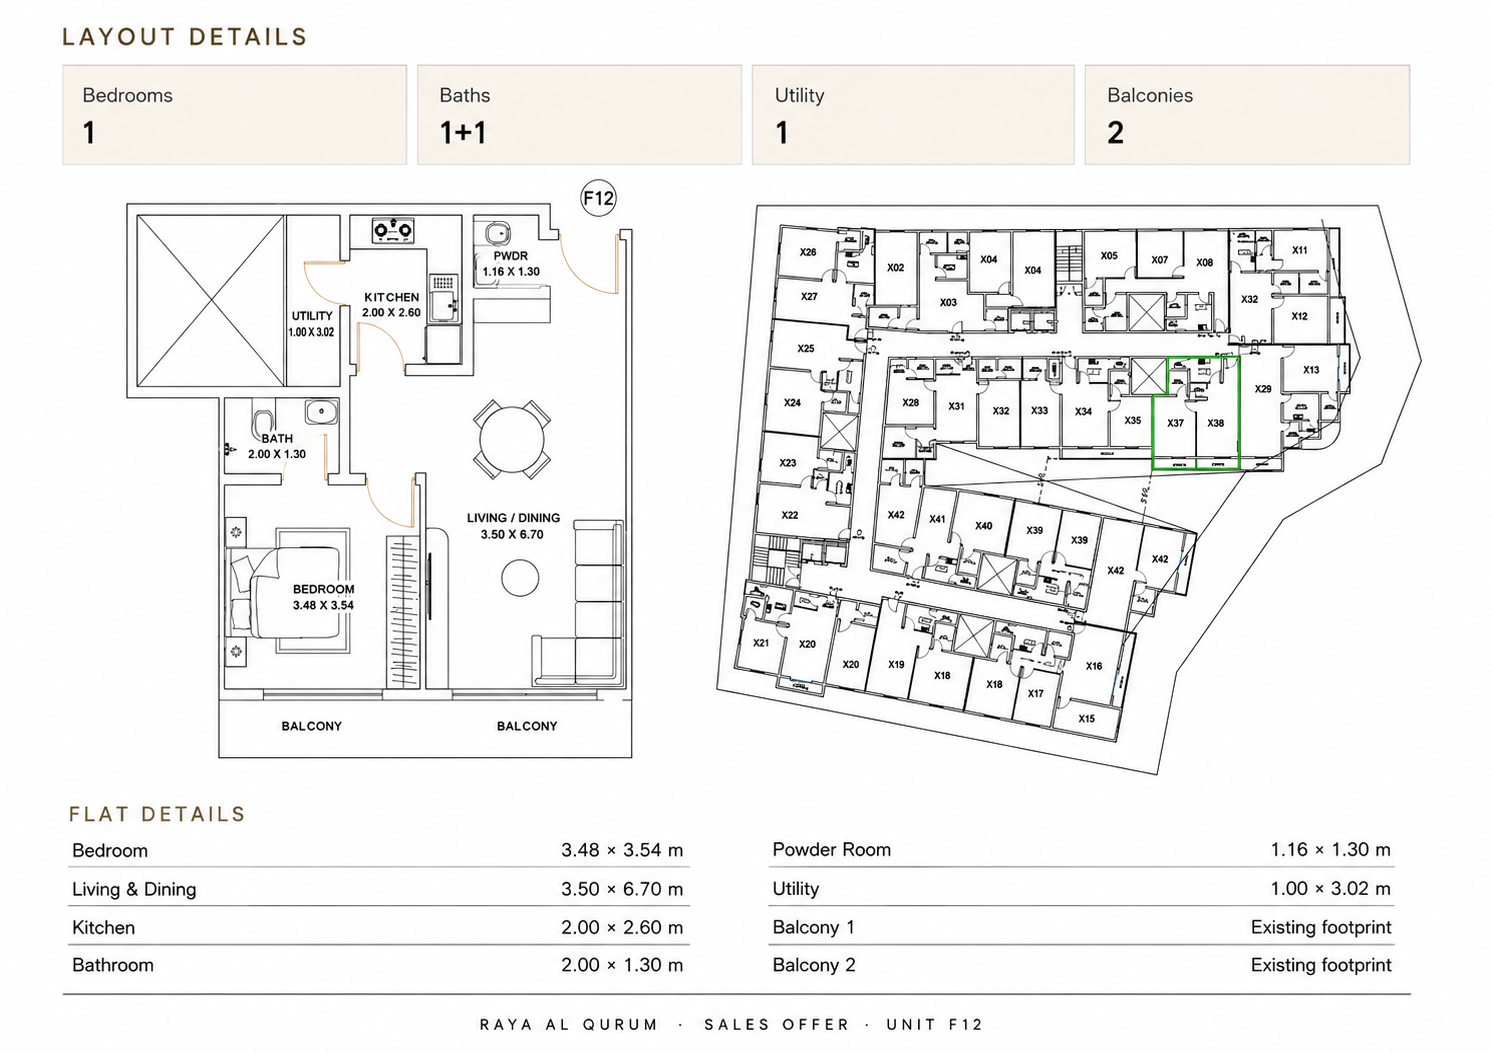
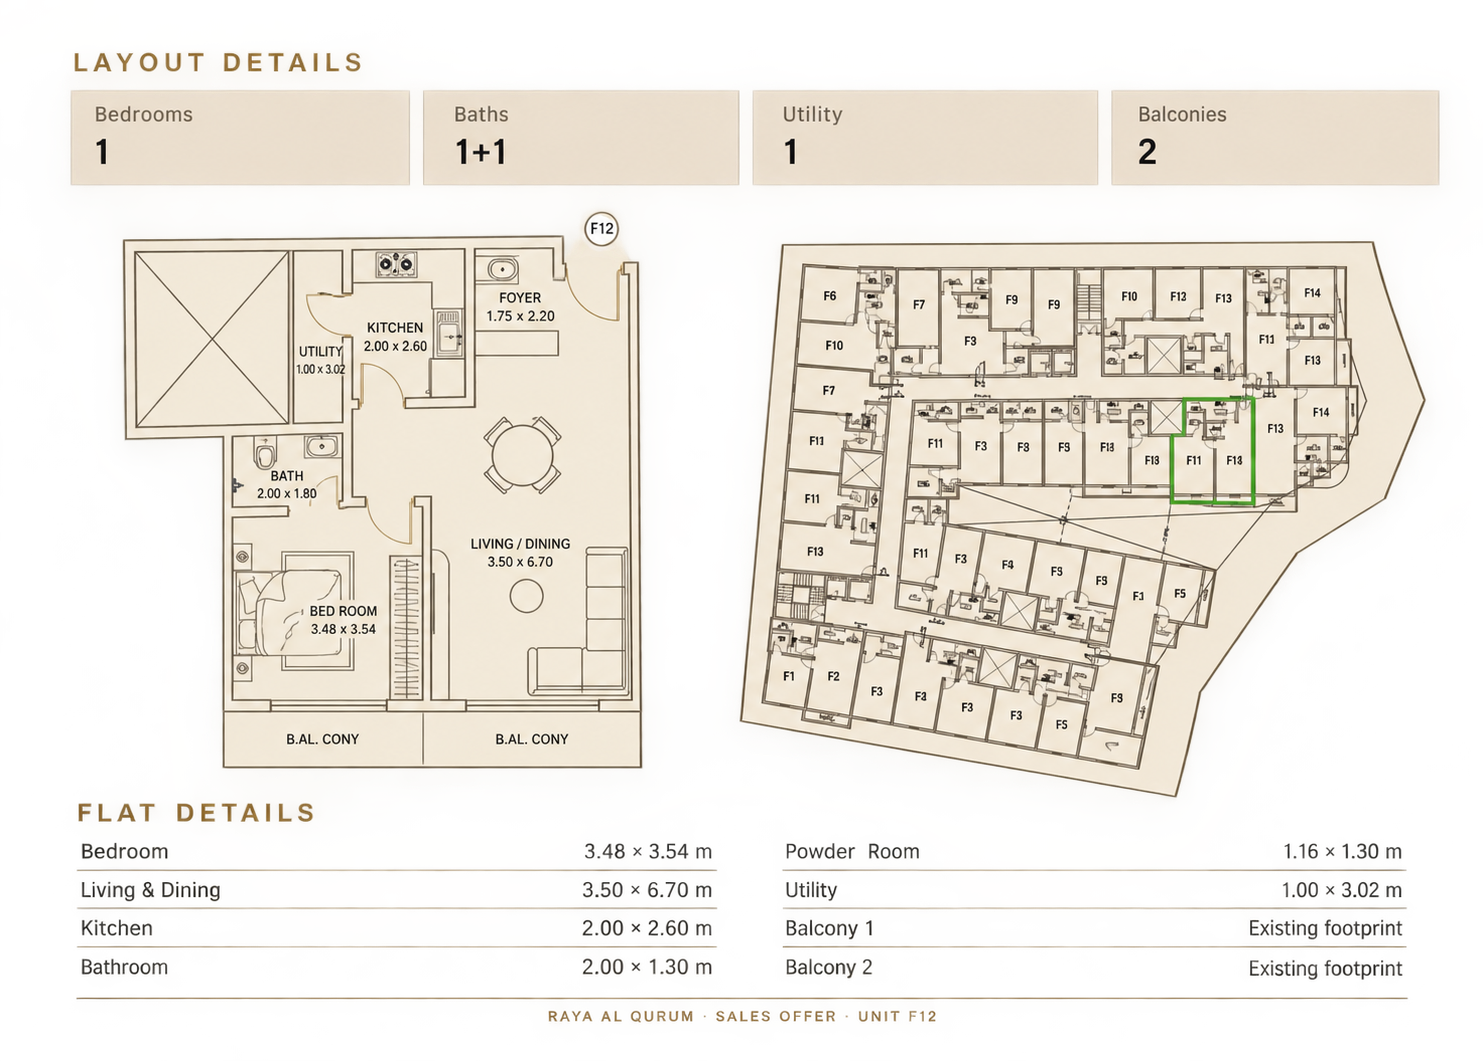
Update residence layouts and sales offer

diff --git a/src/components/Residences.jsx b/src/components/Residences.jsx
@@ -372,7 +372,7 @@ function ResidenceDetails({ residence, onClose }) {
             })
           }
         >
-          <div className="unit-row-number">01</div>
+          <div className="unit-row-number">02</div>
 
           <div className="unit-row-main">
             <span>1 BHK</span>
@@ -414,7 +414,7 @@ function ResidenceDetails({ residence, onClose }) {
             })
           }
         >
-          <div className="unit-row-number">02</div>
+          <div className="unit-row-number">03</div>
 
           <div className="unit-row-main">
             <span>1 BHK</span>
@@ -456,7 +456,7 @@ function ResidenceDetails({ residence, onClose }) {
             })
           }
         >
-          <div className="unit-row-number">03</div>
+          <div className="unit-row-number">04</div>
 
           <div className="unit-row-main">
             <span>1 BHK</span>
@@ -498,7 +498,7 @@ function ResidenceDetails({ residence, onClose }) {
             })
           }
         >
-          <div className="unit-row-number">04</div>
+          <div className="unit-row-number">05</div>
 
           <div className="unit-row-main">
             <span>1 BHK</span>
@@ -540,7 +540,7 @@ function ResidenceDetails({ residence, onClose }) {
             })
           }
         >
-          <div className="unit-row-number">05</div>
+          <div className="unit-row-number">06</div>
 
           <div className="unit-row-main">
             <span>1 BHK</span>

diff --git a/src/components/F6OneBHK.jsx b/src/components/F6OneBHK.jsx
@@ -37,7 +37,7 @@ export default function F6OneBHK() {
     description:
       "A thoughtfully planned one-bedroom residence designed for comfortable, elegant and efficient modern living.",
     area: "69.45 m²",
-    price: "OMR 54,692.000",
+    price: "OMR 57,426.470",
     bedrooms: "1",
     baths: "1 + 1",
     utility: "1",
@@ -295,7 +295,7 @@ export default function F6OneBHK() {
         </div>
 
         <div>
-          <span>Bathrooms</span>
+          <span>Bathrooms + powder</span>
           <strong>{residence.baths}</strong>
         </div>
 
@@ -390,7 +390,7 @@ export default function F6OneBHK() {
 
             <div>
               <strong>{residence.baths}</strong>
-              <span>BATHROOMS</span>
+              <span>BATHROOMS + POWDER</span>
             </div>
 
             <div>
@@ -466,7 +466,7 @@ export default function F6OneBHK() {
 
         <div className="sales-info-item">
           <span>INDICATIVE PRICE</span>
-          <strong>OMR 54,692.000</strong>
+          <strong>OMR 57,426.470</strong>
         </div>
 
       </div>
